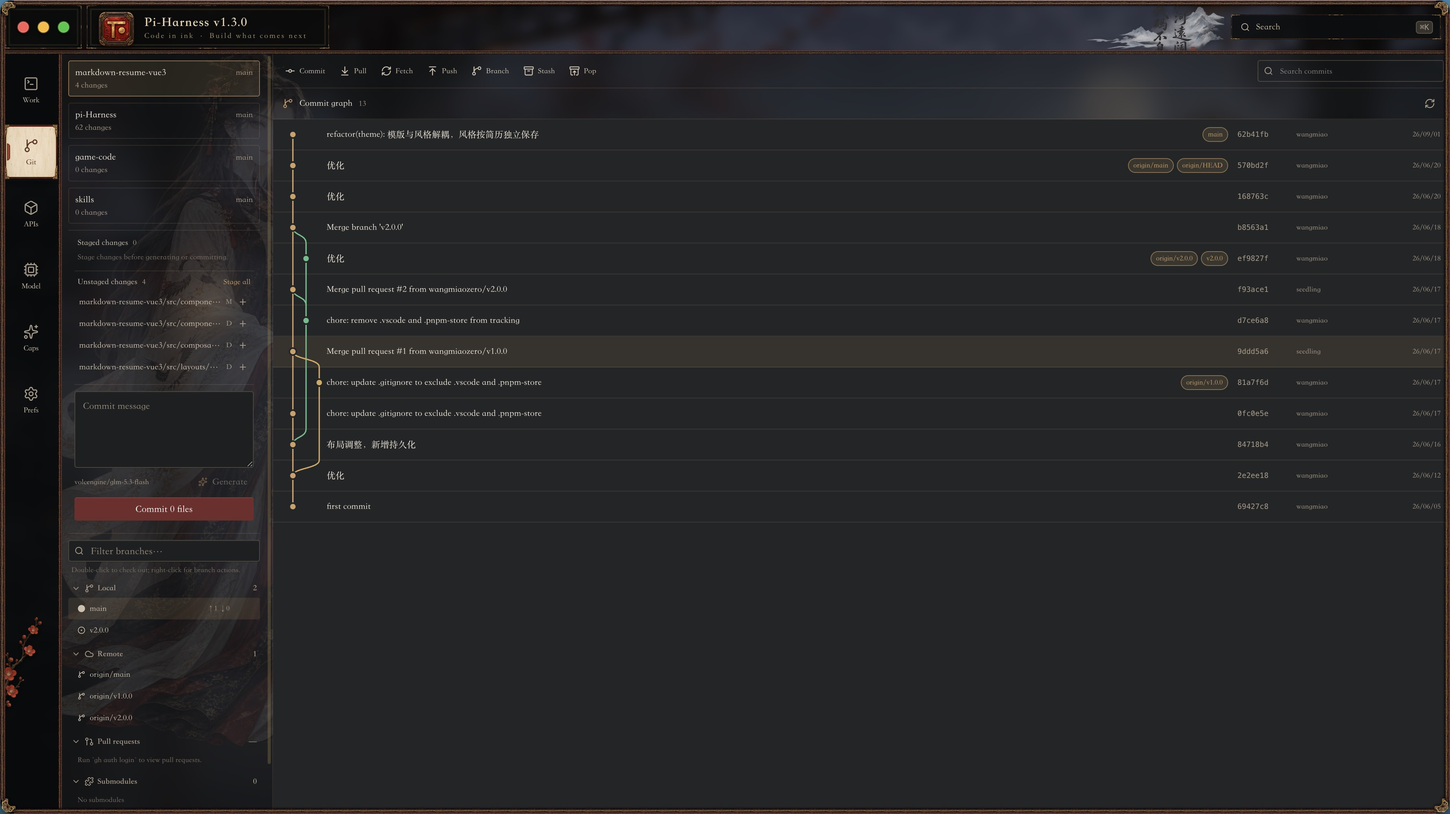
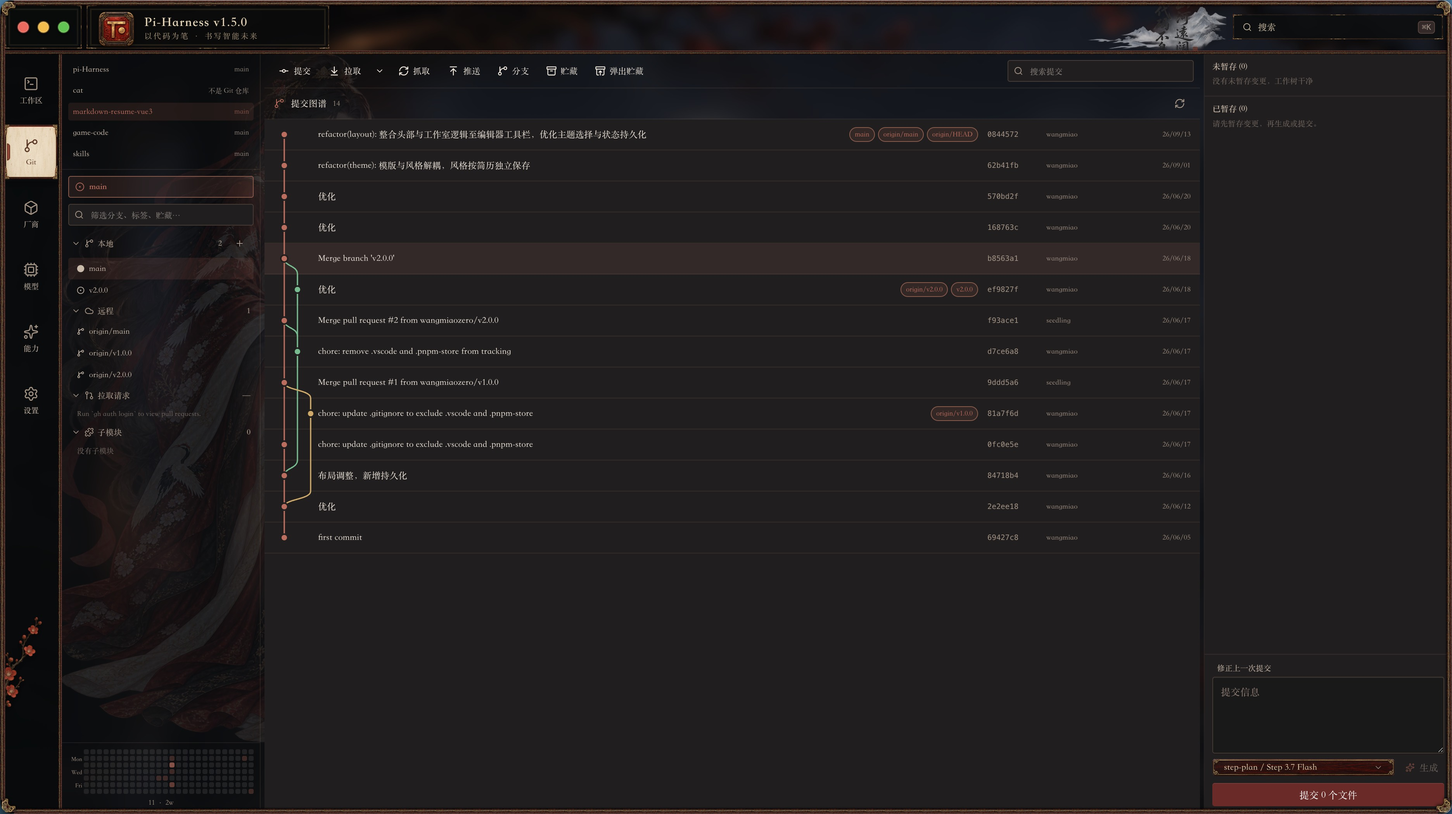
docs: finalize v1.5.0 release notes
Fold orchestration into 1.5.0 and point all README downloads and Classical theme screenshots at this release.

diff --git a/src/main/harness/runs/run-repository.ts b/src/main/harness/runs/run-repository.ts
@@ -83,7 +83,7 @@ export class JsonRunRepository implements RunRepository {
   }
 }
 
-/** Merge multi-agent binding defaults into runs persisted before v1.6. */
+/** Merge multi-agent binding defaults into runs persisted before v1.5. */
 function normalizeRun(run: HarnessRun): HarnessRun {
   return {
     ...run,

diff --git a/README.md b/README.md
@@ -34,7 +34,7 @@
 </p>
 
 <p align="center">
-  <a href="https://github.com/wangmiaozero/pi-harness/releases/tag/v1.4.0"><img alt="release v1.4.0" src="https://img.shields.io/badge/release-v1.4.0-4C8DFF?style=flat-square" /></a>
+  <a href="https://github.com/wangmiaozero/pi-harness/releases/tag/v1.5.0"><img alt="release v1.5.0" src="https://img.shields.io/badge/release-v1.5.0-4C8DFF?style=flat-square" /></a>
   <img alt="platform macOS, Windows, and Linux" src="https://img.shields.io/badge/platform-macOS%20%7C%20Windows%20%7C%20Linux-6B7280?style=flat-square" />
   <a href="LICENSE"><img alt="license AGPL-3.0-only" src="https://img.shields.io/badge/license-AGPL--3.0--only-663399?style=flat-square" /></a>
   <a href="https://github.com/wangmiaozero/pi-harness/stargazers"><img alt="GitHub stars" src="https://img.shields.io/github/stars/wangmiaozero/pi-harness?style=flat-square" /></a>
@@ -150,7 +150,7 @@ The Control Plane manages everything around Pi. The Harness Console observes and
 
 ## Current screenshots
 
-The same six product surfaces are shown in both the default and Classical Chinese themes.
+The same six product surfaces are shown in both the default and Classical Chinese themes. The Classical Chinese theme includes snow and moon workspace variants.
 
 ### Default theme
 
@@ -164,21 +164,21 @@ The same six product surfaces are shown in both the default and Classical Chines
 
 ### Classical Chinese theme
 
-|                             Workspace                              |                                Git                                 |
-| :----------------------------------------------------------------: | :----------------------------------------------------------------: |
-|  ![Workspace in the Classical Chinese theme](docs/古风/Work.jpg)   |      ![Git in the Classical Chinese theme](docs/古风/Git.jpg)      |
-|                           **Providers**                            |                             **Models**                             |
-|  ![Providers in the Classical Chinese theme](docs/古风/APIs.jpg)   |   ![Models in the Classical Chinese theme](docs/古风/Model.jpg)    |
-|                          **Capabilities**                          |                          **Preferences**                           |
-| ![Capabilities in the Classical Chinese theme](docs/古风/Caps.jpg) | ![Preferences in the Classical Chinese theme](docs/古风/Prefs.jpg) |
+|                            Workspace (Snow)                             |                             Workspace (Moon)                             |
+| :---------------------------------------------------------------------: | :----------------------------------------------------------------------: |
+| ![Workspace in the Classical Chinese snow theme](docs/古风/Work-1.jpg)  |  ![Workspace in the Classical Chinese moon theme](docs/古风/Work-2.jpg)  |
+|                                  Git                                    |                              **Providers**                               |
+|      ![Git in the Classical Chinese theme](docs/古风/Git.jpg)           |    ![Providers in the Classical Chinese theme](docs/古风/APIs.jpg)       |
+|                               **Models**                                |                            **Capabilities**                              |
+|   ![Models in the Classical Chinese theme](docs/古风/Model.jpg)         |  ![Capabilities in the Classical Chinese theme](docs/古风/Caps.jpg)      |
+|                            **Preferences**                              |                                                                          |
+| ![Preferences in the Classical Chinese theme](docs/古风/Prefs.jpg)      |                                                                          |
 
 ## Coming Next
 
 Pi-Harness has shipped its Harness Control Plane: Runs, Policy, Checkpoints, Evaluation, and a filterable Trace are live in the Harness Console.
 
-Version 1.5 added Run Intelligence & Replay: every run records a redacted trace you can replay (play/pause, step, 0.5x–4x/instant) and inspect as a span waterfall; forks, retries, and recoveries form a Run Tree; any two runs can be compared metric-by-metric with real diffs; deterministic Diagnostics explain failures with root-cause chains; project baselines flag regressions; artifacts (files, test/lint/build logs, checkpoints, git commits) are tracked per run; and project statistics summarize success, evaluation pass, and recovery rates over time.
-
-Version 1.6 added Multi-Agent Orchestration: agent teams coordinated on one plan — tasks with dependencies, priorities, and assignees; manual, sequential, or dependency-based scheduling with parallel dispatch; per-agent worktree isolation; artifact handoffs; review gates; orchestration budgets; and pause/resume/abort with retry, skip, and reassign.
+Version 1.5 added Run Intelligence & Replay and Multi-Agent Orchestration: every run records a redacted trace you can replay (play/pause, step, 0.5x–4x/instant) and inspect as a span waterfall; forks, retries, and recoveries form a Run Tree; any two runs can be compared metric-by-metric with real diffs; deterministic Diagnostics explain failures with root-cause chains; project baselines flag regressions; artifacts (files, test/lint/build logs, checkpoints, git commits) are tracked per run; and project statistics summarize success, evaluation pass, and recovery rates over time. Agent teams can be coordinated on one plan — tasks with dependencies, priorities, and assignees; manual, sequential, or dependency-based scheduling with parallel dispatch; per-agent worktree isolation; artifact handoffs; review gates; orchestration budgets; and pause/resume/abort with retry, skip, and reassign.
 
 The next phase focuses on session visualization and deeper context inspection without replacing the runtime that Pi already provides.
 
@@ -251,7 +251,7 @@ Project · 30d     82% success · 71% eval pass · 45% recovery
 
 All intelligence is deterministic and evidence-based: spans, cause chains, regression findings, and artifacts come from recorded events and real command output — never model guesses.
 
-### Multi-Agent Orchestration — shipped with 1.6
+### Multi-Agent Orchestration — shipped with 1.5
 
 ```text
 Team          Architect · Frontend · Backend · QA · Reviewer
@@ -318,16 +318,16 @@ Every agent executes through a real Pi session: orchestration adds coordination,
 
 ## Download
 
-Download Pi-Harness v1.4.0 from [GitHub Releases](https://github.com/wangmiaozero/pi-harness/releases/tag/v1.4.0).
+Download Pi-Harness v1.5.0 from [GitHub Releases](https://github.com/wangmiaozero/pi-harness/releases/tag/v1.5.0).
 
 | Platform            | Installer                                                                                                                      |
 | ------------------- | ------------------------------------------------------------------------------------------------------------------------------ |
-| macOS Apple Silicon | [`Pi-Harness-1.4.0-arm64.dmg`](https://github.com/wangmiaozero/pi-harness/releases/download/v1.4.0/Pi-Harness-1.4.0-arm64.dmg) |
-| macOS Intel         | [`Pi-Harness-1.4.0.dmg`](https://github.com/wangmiaozero/pi-harness/releases/download/v1.4.0/Pi-Harness-1.4.0.dmg)             |
-| Windows x64         | [`Pi-Harness-Setup-1.4.0.exe`](https://github.com/wangmiaozero/pi-harness/releases/download/v1.4.0/Pi-Harness-Setup-1.4.0.exe) |
-| Linux x64           | [`Pi-Harness-1.4.0.AppImage`](https://github.com/wangmiaozero/pi-harness/releases/download/v1.4.0/Pi-Harness-1.4.0.AppImage)   |
+| macOS Apple Silicon | [`Pi-Harness-1.5.0-arm64.dmg`](https://github.com/wangmiaozero/pi-harness/releases/download/v1.5.0/Pi-Harness-1.5.0-arm64.dmg) |
+| macOS Intel         | [`Pi-Harness-1.5.0.dmg`](https://github.com/wangmiaozero/pi-harness/releases/download/v1.5.0/Pi-Harness-1.5.0.dmg)             |
+| Windows x64         | [`Pi-Harness-Setup-1.5.0.exe`](https://github.com/wangmiaozero/pi-harness/releases/download/v1.5.0/Pi-Harness-Setup-1.5.0.exe) |
+| Linux x64           | [`Pi-Harness-1.5.0.AppImage`](https://github.com/wangmiaozero/pi-harness/releases/download/v1.5.0/Pi-Harness-1.5.0.AppImage)   |
 
-> macOS community builds may be unsigned. If macOS blocks the first launch, use **System Settings → Privacy & Security → Open Anyway**. See the [v1.4.0 installation notes](https://github.com/wangmiaozero/pi-harness/releases/tag/v1.4.0).
+> macOS community builds may be unsigned. If macOS blocks the first launch, use **System Settings → Privacy & Security → Open Anyway**. See the [v1.5.0 installation notes](https://github.com/wangmiaozero/pi-harness/releases/tag/v1.5.0).
 
 Packaged users do not need to clone the repository or install pnpm. Pi-Harness can detect, install, and repair Node.js, npm, PATH, and Pi Coding Agent where supported.
 

diff --git a/README.ru-RU.md b/README.ru-RU.md
@@ -25,7 +25,7 @@
 </p>
 
 <p align="center">
-  <a href="https://github.com/wangmiaozero/pi-harness/releases/tag/v1.4.0"><img alt="release v1.4.0" src="https://img.shields.io/badge/release-v1.4.0-4C8DFF?style=flat-square" /></a>
+  <a href="https://github.com/wangmiaozero/pi-harness/releases/tag/v1.5.0"><img alt="release v1.5.0" src="https://img.shields.io/badge/release-v1.5.0-4C8DFF?style=flat-square" /></a>
   <img alt="platform macOS, Windows, and Linux" src="https://img.shields.io/badge/platform-macOS%20%7C%20Windows%20%7C%20Linux-6B7280?style=flat-square" />
   <a href="LICENSE"><img alt="license AGPL-3.0-only" src="https://img.shields.io/badge/license-AGPL--3.0--only-663399?style=flat-square" /></a>
 </p>
@@ -53,16 +53,16 @@ Pi-Harness — не обёртка над веб-интерфейсом. В нё
 
 ## Скачать
 
-Скачайте Pi-Harness v1.4.0 из [GitHub Releases](https://github.com/wangmiaozero/pi-harness/releases/tag/v1.4.0).
+Скачайте Pi-Harness v1.5.0 из [GitHub Releases](https://github.com/wangmiaozero/pi-harness/releases/tag/v1.5.0).
 
 | Платформа           | Установщик                                                                                                                   |
 | ------------------- | ---------------------------------------------------------------------------------------------------------------------------- |
-| macOS Apple Silicon | [Pi-Harness-1.4.0-arm64.dmg](https://github.com/wangmiaozero/pi-harness/releases/download/v1.4.0/Pi-Harness-1.4.0-arm64.dmg) |
-| macOS Intel         | [Pi-Harness-1.4.0.dmg](https://github.com/wangmiaozero/pi-harness/releases/download/v1.4.0/Pi-Harness-1.4.0.dmg)             |
-| Windows x64         | [Pi-Harness-Setup-1.4.0.exe](https://github.com/wangmiaozero/pi-harness/releases/download/v1.4.0/Pi-Harness-Setup-1.4.0.exe) |
-| Linux x64           | [Pi-Harness-1.4.0.AppImage](https://github.com/wangmiaozero/pi-harness/releases/download/v1.4.0/Pi-Harness-1.4.0.AppImage)   |
+| macOS Apple Silicon | [Pi-Harness-1.5.0-arm64.dmg](https://github.com/wangmiaozero/pi-harness/releases/download/v1.5.0/Pi-Harness-1.5.0-arm64.dmg) |
+| macOS Intel         | [Pi-Harness-1.5.0.dmg](https://github.com/wangmiaozero/pi-harness/releases/download/v1.5.0/Pi-Harness-1.5.0.dmg)             |
+| Windows x64         | [Pi-Harness-Setup-1.5.0.exe](https://github.com/wangmiaozero/pi-harness/releases/download/v1.5.0/Pi-Harness-Setup-1.5.0.exe) |
+| Linux x64           | [Pi-Harness-1.5.0.AppImage](https://github.com/wangmiaozero/pi-harness/releases/download/v1.5.0/Pi-Harness-1.5.0.AppImage)   |
 
-> Сборки сообщества для macOS могут быть не подписаны. Если система блокирует первый запуск, используйте **Системные настройки → Конфиденциальность и безопасность → Всё равно открыть**. Подробности — в [примечаниях к v1.4.0](https://github.com/wangmiaozero/pi-harness/releases/tag/v1.4.0).
+> Сборки сообщества для macOS могут быть не подписаны. Если система блокирует первый запуск, используйте **Системные настройки → Конфиденциальность и безопасность → Всё равно открыть**. Подробности — в [примечаниях к v1.5.0](https://github.com/wangmiaozero/pi-harness/releases/tag/v1.5.0).
 
 Пользователям готового приложения не нужно клонировать репозиторий или устанавливать pnpm. Pi-Harness может обнаружить, установить и восстановить Node.js, npm, PATH и Pi Coding Agent в поддерживаемой среде.
 
@@ -89,7 +89,7 @@ Pi-Harness — не обёртка над веб-интерфейсом. В нё
 
 ## Скриншоты
 
-Шесть основных экранов показаны в стандартной теме и в теме в стиле династии Мин.
+Основные экраны показаны в стандартной теме и в теме в стиле династии Мин. Рабочая область в теме Мин включает зимний и ночной варианты.
 
 ### Стандартная тема
 
@@ -103,13 +103,15 @@ Pi-Harness — не обёртка над веб-интерфейсом. В нё
 
 ### Тема в стиле династии Мин
 
-|                        Рабочая область                        |                          Git                          |
-| :-----------------------------------------------------------: | :---------------------------------------------------: |
-|  ![Рабочая область в теме династии Мин](docs/古风/Work.jpg)   |     ![Git в теме династии Мин](docs/古风/Git.jpg)     |
-|                        **Провайдеры**                         |                      **Модели**                       |
-|     ![Провайдеры в теме династии Мин](docs/古风/APIs.jpg)     |  ![Модели в теме династии Мин](docs/古风/Model.jpg)   |
-|                    **Центр возможностей**                     |                     **Настройки**                     |
-| ![Центр возможностей в теме династии Мин](docs/古风/Caps.jpg) | ![Настройки в теме династии Мин](docs/古风/Prefs.jpg) |
+|                     Рабочая область (снег)                      |                      Рабочая область (ночь)                       |
+| :-------------------------------------------------------------: | :---------------------------------------------------------------: |
+| ![Рабочая область зимой в теме династии Мин](docs/古风/Work-1.jpg) | ![Рабочая область ночью в теме династии Мин](docs/古风/Work-2.jpg) |
+|                              Git                                |                          **Провайдеры**                           |
+|      ![Git в теме династии Мин](docs/古风/Git.jpg)              |  ![Провайдеры в теме династии Мин](docs/古风/APIs.jpg)            |
+|                           **Модели**                            |                      **Центр возможностей**                       |
+|  ![Модели в теме династии Мин](docs/古风/Model.jpg)             | ![Центр возможностей в теме династии Мин](docs/古风/Caps.jpg)     |
+|                         **Настройки**                           |                                                                   |
+| ![Настройки в теме династии Мин](docs/古风/Prefs.jpg)           |                                                                   |
 
 ## Граница редактора
 

diff --git a/README.zh-CN.md b/README.zh-CN.md
@@ -34,7 +34,7 @@
 </p>
 
 <p align="center">
-  <a href="https://github.com/wangmiaozero/pi-harness/releases/tag/v1.4.0"><img alt="v1.4.0 发布版" src="https://img.shields.io/badge/release-v1.4.0-4C8DFF?style=flat-square" /></a>
+  <a href="https://github.com/wangmiaozero/pi-harness/releases/tag/v1.5.0"><img alt="v1.5.0 发布版" src="https://img.shields.io/badge/release-v1.5.0-4C8DFF?style=flat-square" /></a>
   <img alt="支持 macOS、Windows 和 Linux" src="https://img.shields.io/badge/platform-macOS%20%7C%20Windows%20%7C%20Linux-6B7280?style=flat-square" />
   <a href="LICENSE"><img alt="AGPL-3.0-only 许可" src="https://img.shields.io/badge/license-AGPL--3.0--only-663399?style=flat-square" /></a>
   <a href="https://github.com/wangmiaozero/pi-harness/stargazers"><img alt="GitHub Stars" src="https://img.shields.io/github/stars/wangmiaozero/pi-harness?style=flat-square" /></a>
@@ -144,7 +144,7 @@ Pi-Harness 通过 Pi 的 Runtime 接口与其连接。Session 与 <code>~/.pi/ag
 
 ## 当前界面
 
-下面用默认主题与古风主题分别展示同一组 6 个主要界面。
+下面用默认主题与古风主题分别展示同一组主要界面。古风主题工作区包含雪景与月夜两套界面。
 
 ### 默认主题
 
@@ -158,13 +158,15 @@ Pi-Harness 通过 Pi 的 Runtime 接口与其连接。Session 与 <code>~/.pi/ag
 
 ### 古风主题
 
-|                  工作区                  |                 Git                  |
-| :--------------------------------------: | :----------------------------------: |
-|  ![古风主题工作区](docs/古风/Work.jpg)   |  ![古风主题 Git](docs/古风/Git.jpg)  |
-|               **Provider**               |               **模型**               |
-| ![古风主题 Provider](docs/古风/APIs.jpg) | ![古风主题模型](docs/古风/Model.jpg) |
-|               **能力中心**               |               **设置**               |
-| ![古风主题能力中心](docs/古风/Caps.jpg)  | ![古风主题设置](docs/古风/Prefs.jpg) |
+|                    工作区（雪景）                     |                     工作区（月夜）                      |
+| :---------------------------------------------------: | :-----------------------------------------------------: |
+| ![古风主题雪景工作区](docs/古风/Work-1.jpg)           | ![古风主题月夜工作区](docs/古风/Work-2.jpg)             |
+|                         Git                           |                     **Provider**                        |
+|    ![古风主题 Git](docs/古风/Git.jpg)                 | ![古风主题 Provider](docs/古风/APIs.jpg)                |
+|                       **模型**                        |                     **能力中心**                        |
+|  ![古风主题模型](docs/古风/Model.jpg)                 | ![古风主题能力中心](docs/古风/Caps.jpg)                 |
+|                       **设置**                        |                                                         |
+|  ![古风主题设置](docs/古风/Prefs.jpg)                 |                                                         |
 
 ## 接下来
 
@@ -263,16 +265,16 @@ Pi-Harness 正在从桌面控制中心继续升级为完整的 Pi Agent Harness 
 
 ## 下载
 
-从 [GitHub Releases](https://github.com/wangmiaozero/pi-harness/releases/tag/v1.4.0) 下载 Pi-Harness v1.4.0。
+从 [GitHub Releases](https://github.com/wangmiaozero/pi-harness/releases/tag/v1.5.0) 下载 Pi-Harness v1.5.0。
 
 | 平台                | 安装包                                                                                                                         |
 | ------------------- | ------------------------------------------------------------------------------------------------------------------------------ |
-| macOS Apple Silicon | [`Pi-Harness-1.4.0-arm64.dmg`](https://github.com/wangmiaozero/pi-harness/releases/download/v1.4.0/Pi-Harness-1.4.0-arm64.dmg) |
-| macOS Intel         | [`Pi-Harness-1.4.0.dmg`](https://github.com/wangmiaozero/pi-harness/releases/download/v1.4.0/Pi-Harness-1.4.0.dmg)             |
-| Windows x64         | [`Pi-Harness-Setup-1.4.0.exe`](https://github.com/wangmiaozero/pi-harness/releases/download/v1.4.0/Pi-Harness-Setup-1.4.0.exe) |
-| Linux x64           | [`Pi-Harness-1.4.0.AppImage`](https://github.com/wangmiaozero/pi-harness/releases/download/v1.4.0/Pi-Harness-1.4.0.AppImage)   |
+| macOS Apple Silicon | [`Pi-Harness-1.5.0-arm64.dmg`](https://github.com/wangmiaozero/pi-harness/releases/download/v1.5.0/Pi-Harness-1.5.0-arm64.dmg) |
+| macOS Intel         | [`Pi-Harness-1.5.0.dmg`](https://github.com/wangmiaozero/pi-harness/releases/download/v1.5.0/Pi-Harness-1.5.0.dmg)             |
+| Windows x64         | [`Pi-Harness-Setup-1.5.0.exe`](https://github.com/wangmiaozero/pi-harness/releases/download/v1.5.0/Pi-Harness-Setup-1.5.0.exe) |
+| Linux x64           | [`Pi-Harness-1.5.0.AppImage`](https://github.com/wangmiaozero/pi-harness/releases/download/v1.5.0/Pi-Harness-1.5.0.AppImage)   |
 
-> macOS 社区构建可能没有签名。首次启动若被系统拦截，请前往“系统设置 → 隐私与安全性 → 仍要打开”。详细说明见 [v1.4.0 Release Notes](https://github.com/wangmiaozero/pi-harness/releases/tag/v1.4.0)。
+> macOS 社区构建可能没有签名。首次启动若被系统拦截，请前往“系统设置 → 隐私与安全性 → 仍要打开”。详细说明见 [v1.5.0 Release Notes](https://github.com/wangmiaozero/pi-harness/releases/tag/v1.5.0)。
 
 安装包用户不需要 clone 仓库，也不需要安装 pnpm。Pi-Harness 可以在支持的环境中检测、安装和修复 Node.js、npm、PATH 与 Pi Coding Agent。
 

diff --git a/CHANGELOG.md b/CHANGELOG.md
@@ -2,26 +2,7 @@
 
 Public release notes contain only released, user-visible additions and fixes.
 
-## 1.6.0
-
-### Added
-
-- Added Multi-Agent Orchestration: coordinate a team of Pi agents on one plan — tasks with dependencies, priorities, assignees, and manual, sequential, or dependency-based scheduling with parallel dispatch under configurable agent/run concurrency.
-- Added the Orchestration console: a dashboard with status, tokens, cost, and cost-by-agent shares, an Agents board, a Tasks board, and Teams & Templates panels. Every agent state comes from a real Pi session — no mocked status.
-- Added agent templates, reusable teams, and built-in team presets, including reviewer roles that approve or reject task results before completion.
-- Added artifact handoff between agents: downstream tasks receive the artifacts and results of their dependencies instead of full session history.
-- Added per-agent Git worktree isolation plus same-file conflict detection across concurrently running agents.
-- Added orchestration budgets (tokens and cost) with per-agent token budgets, pause on budget exceed, and cost-by-agent breakdowns.
-- Added orchestration recovery: pause/resume/abort, retry failed tasks with reviewer feedback carried into the retry, skip, and reassign; interrupted orchestrations are detected after restart and remain resumable.
-- Added dependency cycle detection, stuck-agent hints, and an orchestration timeline of task, agent, handoff, and review events.
-
-### Fixed
-
-- Fixed Harness and Orchestration console surfaces rendering translucent, so they now stay solid under every theme and visual skin.
-- Fixed doubled focus outlines on console inputs and search fields.
-- Fixed the Orchestration console navigation highlighting and dropdowns to follow the active theme.
-
-## 1.5.0
+## 1.5.0 — 2026-09-13
 
 ### Added
 
@@ -36,10 +17,23 @@ Public release notes contain only released, user-visible additions and fixes.
 - Added project statistics: run/success/failure rates, sessions, average duration and tokens, evaluation pass rate, recovery rate, and top failure categories over today/7d/30d/all-time ranges.
 - Added Fork & Re-run from any run (new session at that entry, or same-session re-execution) and run exports (JSON/Markdown) plus a redacted debug bundle — all exports strip secrets.
 - Added run-history persistence with retention settings (7/30/90/forever) and per-run trace event caps.
+- Added Multi-Agent Orchestration: coordinate a team of Pi agents on one plan — tasks with dependencies, priorities, assignees, and manual, sequential, or dependency-based scheduling with parallel dispatch under configurable agent/run concurrency.
+- Added the Orchestration console: a dashboard with status, tokens, cost, and cost-by-agent shares, an Agents board, a Tasks board, and Teams & Templates panels. Every agent state comes from a real Pi session — no mocked status.
+- Added agent templates, reusable teams, and built-in team presets, including reviewer roles that approve or reject task results before completion.
+- Added artifact handoff between agents: downstream tasks receive the artifacts and results of their dependencies instead of full session history.
+- Added per-agent Git worktree isolation plus same-file conflict detection across concurrently running agents.
+- Added orchestration budgets (tokens and cost) with per-agent token budgets, pause on budget exceed, and cost-by-agent breakdowns.
+- Added orchestration recovery: pause/resume/abort, retry failed tasks with reviewer feedback carried into the retry, skip, and reassign; interrupted orchestrations are detected after restart and remain resumable.
+- Added dependency cycle detection, stuck-agent hints, and an orchestration timeline of task, agent, handoff, and review events.
+- Added a native Git workspace with history and activity graphs, a commit panel, and AI commit-message generation.
+- Added a cascading vendor-then-model picker in Workspace and the Git commit panel.
 
 ### Fixed
 
 - Anchored live runs to their session entries before settling, so persisted runs always keep their prompt anchor and working directory for replay and project statistics.
+- Fixed Harness and Orchestration console surfaces rendering translucent, so they now stay solid under every theme and visual skin.
+- Fixed doubled focus outlines on console inputs and search fields.
+- Fixed the Orchestration console navigation highlighting and dropdowns to follow the active theme.
 
 ## 1.4.0
 
